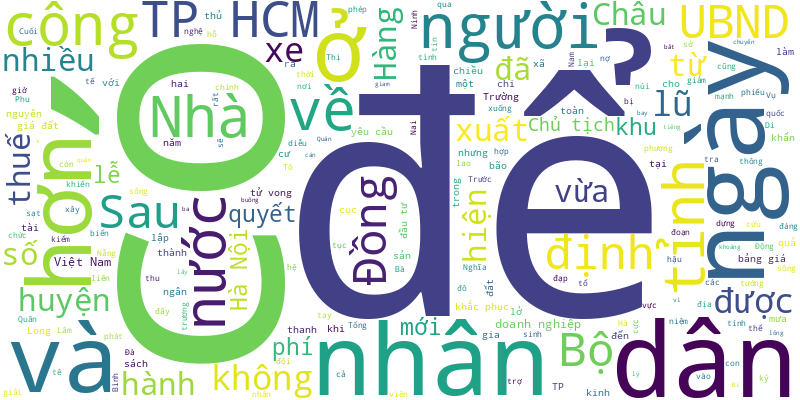
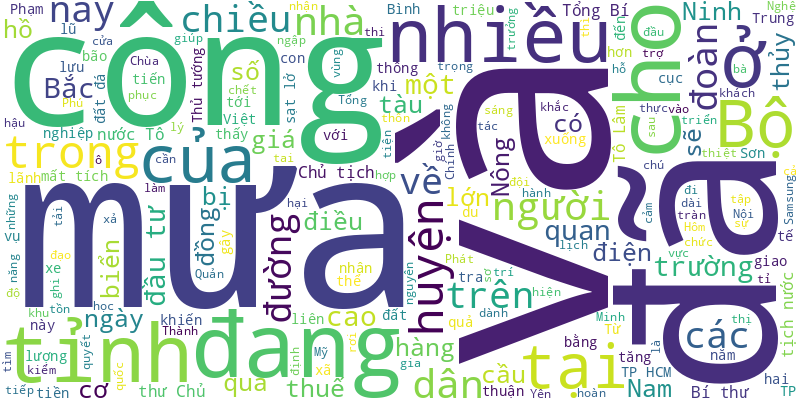
🍀 = 80%

diff --git a/README.md b/README.md
@@ -1,6 +1,13 @@
 # Tuoi Tre RSS 
 
 ## Giáo dục 
+- 'Bạn không học được, cần bằng đã có người thi hộ. Người thật, thi thật, nói không với chứng chỉ giả. Bảo hành kết quả trọn đời, không đạt hoàn 200% phí'. Đó là một trong những kiểu mời chào hấp dẫn có trên mạng xã hội.
+- Thấy nguy cơ sạt lở đất đá vào ký túc xá rất cao, cô giáo Bùi Thị Châm buông đũa bữa cơm trưa chạy lên ký túc xá gọi học sinh đi sơ tán. 10 phút sau, đất đá đổ xuống ầm ầm, 3 phòng bị phá nát.
+- Do mưa lũ kéo dài nhiều ngày qua làm sạt lở đất đá vào khu ký túc xá, chiều 22-9, chính quyền xã Trung Lý, huyện Mường Lát và nhà trường đã di dời khẩn cấp 214 học sinh đến nơi an toàn.
+- Quả đồi sau Trường tiểu học Quang Trung (huyện Đạ Tẻh, tỉnh Lâm Đồng) đã lở lói, đất đá tràn tứ tung, nguy cơ sạt lở, uy hiếp sự an toàn gần 600 học sinh.
+- Kình ngư Hán Quang Thoại (35 tuổi, vận động viên Para Games) dành thời gian dạy bơi và lịch sử miễn phí cho trẻ mồ côi ở mái ấm.
+- Việc phải làm sao có môi trường nói tiếng Anh ngay trong nhà trường, rồi ở mức cao hơn là ở ngoài xã hội là vấn đề còn bỏ ngỏ.
+- Việc tổ chức quá nhiều cuộc thi học thuật, kỹ năng, đã và đang trở thành vấn đề gây tranh cãi.
 - Sách giáo khoa cũng là thứ được nhiều cá nhân, các nhóm thiện nguyện tính đến trong danh mục hàng cứu trợ gửi đến các địa phương vùng bị bão lũ.
 - Sau giờ học, nam sinh lớp 11 Trường THPT Bù Đăng ra khỏi trường thì bị một học sinh cùng trường và bạn đánh gây chấn thương, gãy 4 chiếc răng.
 - Chủ tịch hội đồng trường và hiệu trưởng Trường đại học Kinh Bắc (Bắc Ninh) phát hiện con dấu pháp nhân của trường không còn ở nơi lưu trữ.
@@ -24,45 +31,38 @@
 - Huân chương Cành cọ hàn lâm ghi nhận nỗ lực không ngừng nghỉ của TS Phan Thị San Hà trong việc xây dựng và phát triển Trung tâm CARE cũng như bồi đắp mối quan hệ giữa Trường đại học Bách khoa (Đại học Quốc gia TP.HCM) và các đối tác Pháp.
 - Chiều 19-9, báo Tuổi Trẻ và Trường đại học Nguyễn Tất Thành tổng kết khóa 1 dự án hợp tác đào tạo sinh viên giữa hai bên.
 - Trước những thiệt hại do bão số 3, Bộ Giáo dục và Đào tạo yêu cầu các trường thực hiện các giải pháp dạy học linh hoạt, không gây áp lực, quá tải cho giáo viên và học sinh.
-- Năm học mới, Hải Phòng miễn toàn bộ học phí từ mầm non đến THPT; Quảng Ninh sẽ xem xét hỗ trợ 100% học phí cho học sinh vì bão số 3; Vĩnh Phúc giảm 50% học phí so với năm ngoái.
-- Số lượng sinh viên đại học bỏ học ở Hàn Quốc tăng đột biến trong 5 năm qua, khi có tới 90.000 sinh viên bỏ học từ năm 2019-2023.
-- Khóa học do các chuyên gia trong lĩnh vực bán dẫn từ Đại học Quốc gia Singapore (NUS), Trung tâm Nghiên cứu khoa học quốc gia Pháp (CNRS)... hướng dẫn.
-- Sáng 19-9, TP.HCM tổ chức sơ kết 1 năm triển khai chương trình phối hợp giữa Sở Giáo dục và Đào tạo và Sở Lao động - Thương binh và Xã hội về định hướng phân luồng và giáo dục nghề nghiệp với học sinh THCS và THPT giai đoạn 2023-2025.
-- Nhiều trường học tại TP.HCM đã dành ngày làm việc tốt "gửi nắng yêu thương" hướng về đồng bào vùng bão lũ.
-- Năm học 2024-2025, Trường đại học Cần Thơ triển khai đề án nâng cấp trường thành trung tâm đào tạo nguồn nhân lực chất lượng cao, nghiên cứu, ứng dụng khoa học của TP Cần Thơ và vùng Đồng bằng sông Cửu Long.
-- Để chủ động và linh hoạt trong ứng phó bão số 4, đảm bảo an toàn cho thầy và trò, Bộ Giáo dục và Đào tạo lưu ý 17 tỉnh, thành cân nhắc cho học sinh nghỉ học khi cần.
 ![Edu](Edu.png)
 ## Thời Sự 
-- UBND TP.HCM vừa cho phép lấy bảng giá đất hiện hành nhân (x) hệ số để tính thuế đất từ 1-8-2024.
-- Công an tỉnh Đồng Nai vừa bắt giam ba cán bộ xã ở huyện Định Quán, tỉnh Đồng Nai vì đã buông lỏng quản lý tài nguyên, khoáng sản.
-- Sau chuyến bay hơn 19 tiếng từ thủ đô Hà Nội, chiều 21-9 (giờ địa phương), Tổng Bí thư, Chủ tịch nước Tô Lâm và Phu nhân đã đến New York, Mỹ.
-- Ảnh hưởng không khí lạnh đầu mùa, Bắc Bộ có mưa to đến rất to, Nam Bộ dù giảm mưa nhưng vẫn có mưa rào nhiều nơi.
-- Một số tin tức đáng chú ý: Đề xuất nghỉ hưu được thanh toán tiền đóng bảo hiểm thất nghiệp; Hàng chục nghìn tỉ trái phiếu có nguy cơ chậm trả nợ gốc; Sếp Thế Giới Di Động liên tục muốn bán ra cổ phiếu.
-- Thủ tướng yêu cầu Ngân hàng Nhà nước, hệ thống ngân hàng nghiên cứu chính sách giãn, hoãn, khoanh nợ, chính sách tín chấp, gói lãi suất 0 đồng... để hỗ trợ doanh nghiệp, người dân bị thiệt hại do bão lũ.
-- Nhiều tình nguyện viên và người dân lập team để chung tay làm sạch bãi biển Tuần Châu (Hạ Long).
-- “Khẩn trương khắc phục hậu quả bão lũ, nhanh chóng ổn định đời sống nhân dân, tích cực khôi phục sản xuất kinh doanh, thúc đẩy tăng trưởng kinh tế”.
-- Cục Thuế TP.HCM yêu cầu các chi cục thuế làm việc cả các ngày thứ bảy, chủ nhật để giải quyết hồ sơ tồn đọng và nhấn mạnh không được để phát sinh phiền hà, nhũng nhiễu, tiêu cực.
-- Sau hai ngày xét xử, chiều 21-9, TAND TP Đà Nẵng tuyên phạt Huỳnh Thị Châu (49 tuổi, trú quận Cẩm Lệ, Đà Nẵng) 20 năm tù về tội lừa đảo chiếm đoạt tài sản.
-- Cư dân, doanh nghiệp khu vực BOT Phú Hữu kiến nghị miễn thu phí đối với xe rác, xe đưa rước học sinh... Đồng thời giảm 50% xe nhân viên, doanh nghiệp có trụ sở gần trạm.
-- Hai bé gái ở thị xã Nghĩa Lộ (Yên Bái) đạp xe đạp qua ngầm tràn bị nước cuốn trôi. Rất may người dân phát hiện và lao xuống cứu kịp thời.
-- Vụ tai nạn lao động nghiêm trọng xảy ra chiều 21-9 tại xã Ninh An, huyện Hoa Lư, Ninh Bình khiến hai người tử vong.
-- Cuối ngày 21-9, UBND TP.HCM có văn bản cho phép sử dụng bảng giá đất hiện hành để tính thuế trong lúc chờ ban hành bảng giá đất mới.
-- Vợ điện liên tục nên tài xế Phượng Quầy Châu quyết định bỏ lại ô tô, đi bộ băng qua đoạn sạt lở giữa đêm để về nhà, thoát khỏi thảm họa lở núi đẩy hơn 30 người cùng nhiều xe xuống suối.
-- Bộ Tổng tham mưu Quân đội nhân dân Việt Nam thông báo dừng diễu binh, diễu hành trong lễ kỷ niệm 80 năm Ngày thành lập Quân đội nhân dân Việt Nam để tập trung khắc phục hậu quả bão số 3.
-- Chủ tịch UBND tỉnh Lào Cai Trịnh Xuân Trường nhấn mạnh sẽ quyết tâm xây dựng lại một Làng Nủ mới đẹp hơn, đáng sống hơn, an toàn hơn, nghĩa tình hơn.
-- Dự án chống sạt lở núi Van Cà Vãi được đầu tư khẩn cấp, thi công trong 108 ngày, nhưng sau 60 ngày chỉ mới làm hơn 23% khối lượng.
-- 'Trước khi dòng nước lũ ập về, tôi cũng được xem là giàu có nhưng giờ trắng tay rồi, không còn gì kể cả nhà để ở'.
-- Sau khi bệnh nhân tử vong nghi sốc thuốc ở phòng khám tư, Sở Y tế Đắk Lắk lập đoàn thanh tra để kiểm thảo nguyên nhân tử vong.
-- Xuất hiện vết nứt lớn ở quả đồi sau khu dân cư có 11 hộ dân, chủ tịch tỉnh Quảng Nam yêu cầu địa phương khẩn trương chọn vị trí an toàn xây dựng khu tái định cư, hỗ trợ kinh phí để người dân di dời đến nơi ở mới trước Tết.
-- Sáng 21-9, UBND TP Hà Nội đã tổ chức lễ khánh thành Cung thiếu nhi Hà Nội và gắn biển công trình chào mừng kỷ niệm 70 năm Ngày Giải phóng thủ đô.
-- Mức bồi thường chi phí đầu tư vào đất còn lại khi Nhà nước thu hồi đất tại TP Hà Nội từ 20-9-2024.
-- Ngày 21-9, Hiệp hội Phần mềm và Dịch vụ công nghệ thông tin Việt Nam (VINASA) vừa công bố Top 10 Doanh nghiệp Công nghệ số xuất sắc Việt Nam 2024.
-- TP.HCM sẽ dùng vốn ngân sách để đầu tư đoạn đường dẫn cao tốc TP.HCM - Long Thành - Dầu Giây.
-- Đợt triều cường cuối tháng 9-2024 kết hợp với nước lũ từ thượng nguồn sông Mekong đổ về có thể gây ngập nhiều ở khu vực Đồng bằng sông Cửu Long.
-- Ngày 21-9, Chủ tịch UBND huyện Châu Đức (tỉnh Bà Rịa - Vũng Tàu) cho biết huyện đã có quyết định thanh tra toàn diện Trường mầm non Ánh Dương.
-- Hàng ngàn lô nền trống không, nhà vượt lũ hoang phế không người ở, khiến ai cũng có thể cảm nhận về sự lãng phí và mong mỏi sớm tìm ra cách khắc phục.
-- Chi cục Kiểm lâm TP.HCM vừa phối hợp với Vườn quốc gia Bù Gia Mập (tỉnh Bình Phước) thả một con tê tê Java và 4 con cu li nhỏ về môi trường tự nhiên.
-- Lễ viếng bà Đặng Bích Hà, phu nhân Đại tướng Võ Nguyên Giáp, được tổ chức vào ngày 28-9 tại Nhà tang lễ Quốc gia.
+- Mưa lớn kéo dài suốt đêm tới sáng khiến nhiều tuyến phố ở TP Vinh, Nghệ An bị ngập nặng trong sáng nay 23-9.
+- Tổng Bí thư, Chủ tịch nước Tô Lâm đã gặp các lãnh đạo, chuyên gia tập đoàn công nghệ hàng đầu của Mỹ về bán dẫn và trí tuệ nhân tạo (AI) chiều 22-9 giờ New York.
+- Đang chạy trên đường Nguyễn Văn Linh (huyện Bình Chánh, TP.HCM), ô tô tông xe tải khiến hai người chết. Lực lượng chức năng đang điều tra nguyên nhân tai nạn.
+- Từ ngày 20-9-2024, TP Hà Nội áp dụng cơ chế thưởng bằng tiền đối với trường hợp bàn giao mặt bằng đúng tiến độ.
+- Tin tức đáng chú ý: Bão số 4 và hoàn lưu đã làm 5 người chết, mất tích; Giá thịt heo cả nước đồng loạt tăng; Bộ Nông nghiệp và Phát triển nông thôn kiểm tra công tác khắc phục hậu quả thiên tai tại huyện Nguyên Bình, Cao Bằng...
+- Hôm nay 23-9, không khí lạnh lan tới Bắc Trung Bộ gây mưa to cho khu vực này. Bắc Bộ và Nam Bộ giảm mưa.
+- Tổng Bí thư, Chủ tịch nước Tô Lâm đánh giá cao và trân trọng những tình cảm tốt đẹp của Giáo hoàng Francis và Thủ tướng Tòa thánh Vatican dành cho Việt Nam.
+- Tổng Bí thư, Chủ tịch nước Tô Lâm kêu gọi cần tăng cường đoàn kết, hợp tác và tôn trọng lẫn nhau, tuân thủ luật pháp quốc tế.
+- Tổng Bí thư, Chủ tịch nước Tô Lâm đã dành hoạt động đầu tiên cho những người Việt xa quê, nhấn mạnh bà con là một phần không thể tách rời của dân tộc Việt Nam.
+- Chiều 22-9, Thủ tướng Phạm Minh Chính tiếp lãnh đạo một số doanh nghiệp dự kiến sẽ đầu tư lớn tại tỉnh Bắc Ninh trong thời gian tới, gồm Samsung, Phú Mỹ Hưng và Aeon Mall.
+- Do ảnh hưởng của bão số 4, hai ngày qua tại huyện Mường Lát có mưa lớn, lượng mưa đạt 106,6mm gây sạt lở đất đá, ngập lụt nhiều nơi.
+- Cục Quản lý thị trường tỉnh Kon Tum cho hay hiện đoàn kiểm tra của Tổng cục Quản lý thị trường đang làm rõ các nội dung liên quan vụ chặn khám xe chở hàng.
+- Tỉnh Bắc Ninh trao nhiều quyết định chủ trương đầu tư, giấy chứng nhận đăng ký đầu tư, biên bản ghi nhớ cho Samsung, Công ty CP Đầu tư Công đoàn Ngân hàng Công Thương, Foxconn, Amkor, Goertek... với tổng vốn đầu tư hơn 5,5 tỉ USD.
+- Chùa Vạn Phật tại TP Pleiku (Gia Lai) bốc cháy lớn gây thiệt hại nhiều tài sản và đồ vật trong nhà chùa, cơ quan chức năng đang thống kê thiệt hại.
+- Ghi nhận thực tế tại các chi cục thuế ở TP.HCM trong ngày hôm nay 22-9 cho thấy hồ sơ thuế nhà đất đang tồn rất nhiều.
+- Có nhà ở xã hội thuộc sở hữu nhà nước chiếm tỉ lệ cao trên cả nước, Đà Nẵng sẽ hỗ trợ hộ nghèo khi xây mới số tiền 80 triệu đồng/nhà, nếu sửa chữa thì hỗ trợ tối đa 30 triệu đồng/nhà...
+- Mùa mưa bão năm nay đã đến, tại tỉnh Phú Yên có nhiều cây cầu xuống cấp, hư hỏng... đang là mối lo cho người dân khi lưu thông qua cầu.
+- Quả đồi sau Trường tiểu học Quang Trung (huyện Đạ Tẻh, tỉnh Lâm Đồng) đã lở lói, đất đá tràn tứ tung, nguy cơ sạt lở, uy hiếp sự an toàn gần 600 học sinh.
+- Ô tô tải và xe con đi trên quốc lộ 6 thì bị khối đất đá sạt lở xuống và đè trúng. Sự việc xảy ra vào chiều 22-9 tại xã Chiềng Hắc, huyện Mộc Châu, tỉnh Sơn La.
+- Mưa to khiến lưu lượng nước về hồ thủy điện Hòa Bình tăng nhanh, bộ trưởng Bộ Nông nghiệp và Phát triển nông thôn phải lệnh mở liên tiếp 3 cửa xả đáy trong trưa và chiều nay.
+- Liên quan đến vụ "một khách du lịch trượt chân rơi xuống biển mất tích", thi thể nam du khách được  đội lặn của Lữ đoàn đặc công nước 5 tỉnh Ninh Thuận tìm thấy, cách vị trí rơi khoảng 150m.
+- Mưa lũ đã cuốn trôi nhiều cột điện ở xã Sơn Thủy, huyện vùng cao Quan Sơn nên khu vực này đang bị mất điện.
+- Nút giao đường Rừng Sác với cao tốc Bến Lức - Long Thành sẽ giúp người dân các tỉnh đến Cần Giờ thuận tiện hơn.
+- Sau chấp thuận của UBND TP.HCM về lấy bảng giá đất hiện hành để tính thuế đất từ 1-8-2024, cơ quan thuế đang tập trung giải quyết hồ sơ tồn.
+- Tàu Cảnh sát biển 2011 tìm thấy một thi thể ngư dân mất tích. Ngư dân này đi trên tàu cá và bị một tàu hàng đâm chìm ở vùng biển Côn Đảo.
+- Trên công trường, Thủ tướng Phạm Minh Chính yêu cầu rút ngắn tiến độ, hoàn thành vành đai 4 qua Bắc Ninh vào cuối năm 2025.
+- Nhân viên hút hầm cầu báo giá hơn 10 triệu tiền công cho 19m đường ống đã thông, trong khi chiều dài thực tế chỉ có 6m.
+- Từ 10h ngày mai 23-9, Thủy điện Trị An sẽ tiến hành xả lũ điều tiết qua đập tràn để điều tiết hồ chứa.
+- Người dân ở Yên Bái cầm cờ, hoa đứng dọc hai bên đường vẫy chào, cảm ơn các chú bộ đội đã giúp bà con khắc phục hậu quả mưa lũ.
+- Thuyền trưởng vụ lật tàu du lịch ở biển Cửa Đại lãnh án 7 năm tù giam về tội vi phạm quy định về điều khiển phương tiện giao thông đường thủy.
 ![New](News.png)
 ## Nhịp sống số 
 - Sở Y tế TP.HCM đã triển khai phần mềm tra cứu thuốc cấp cứu, với 14 bệnh viện tham gia tra cứu, chia sẻ 37 loại thuốc cấp cứu.
